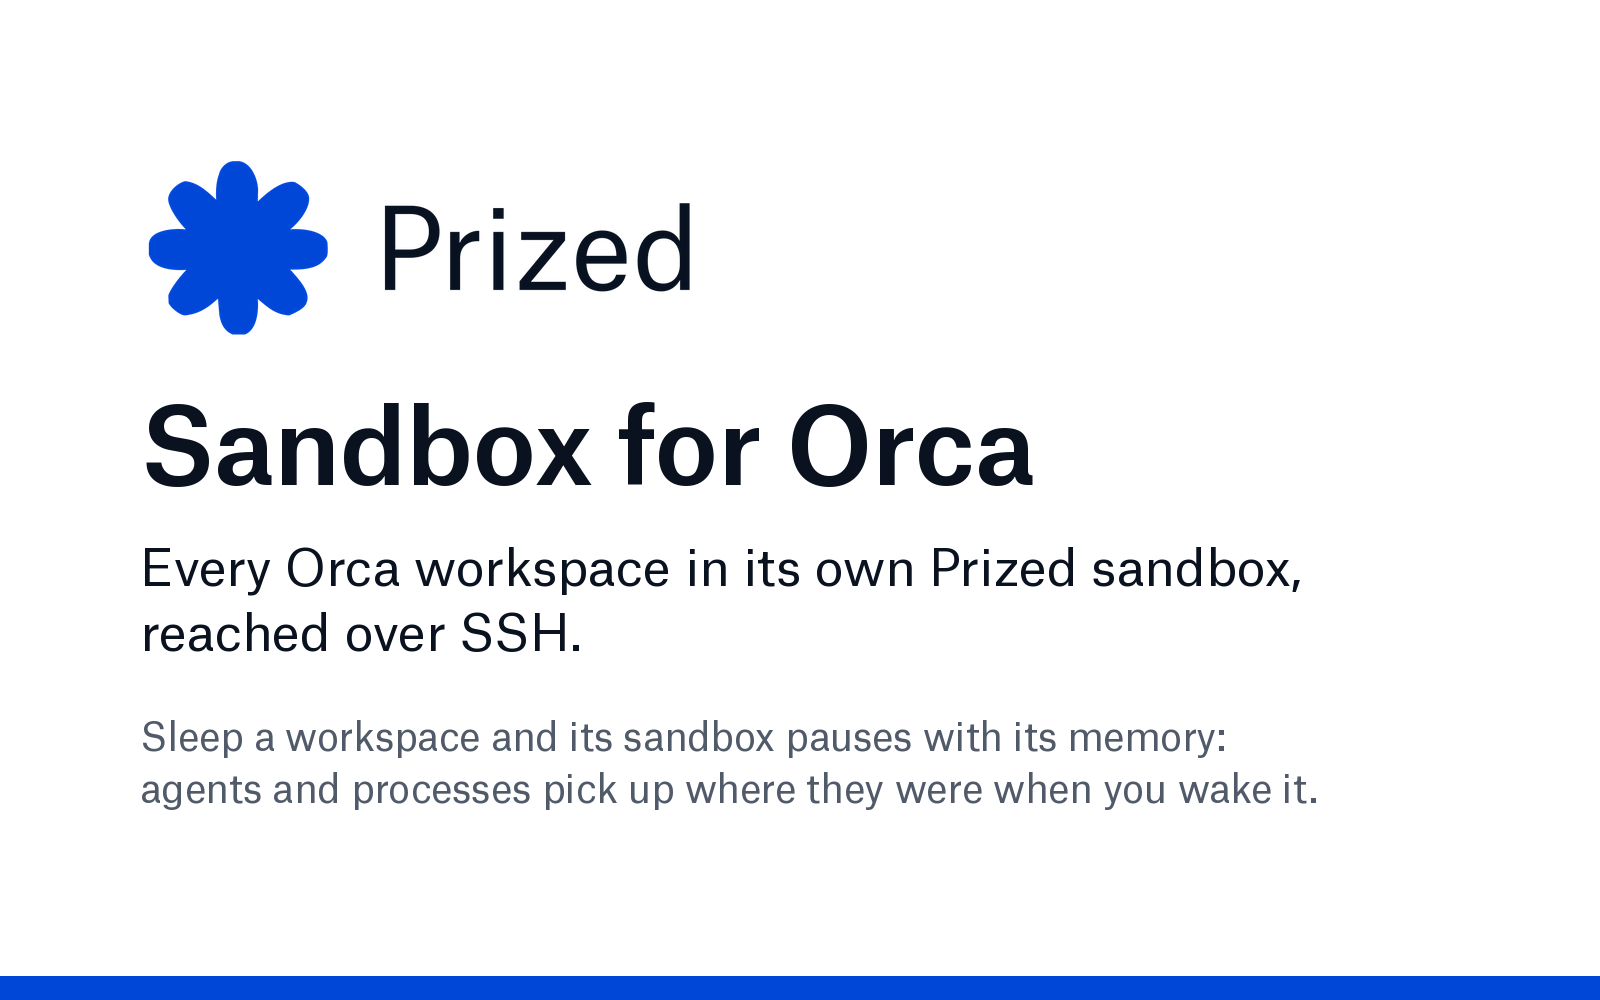
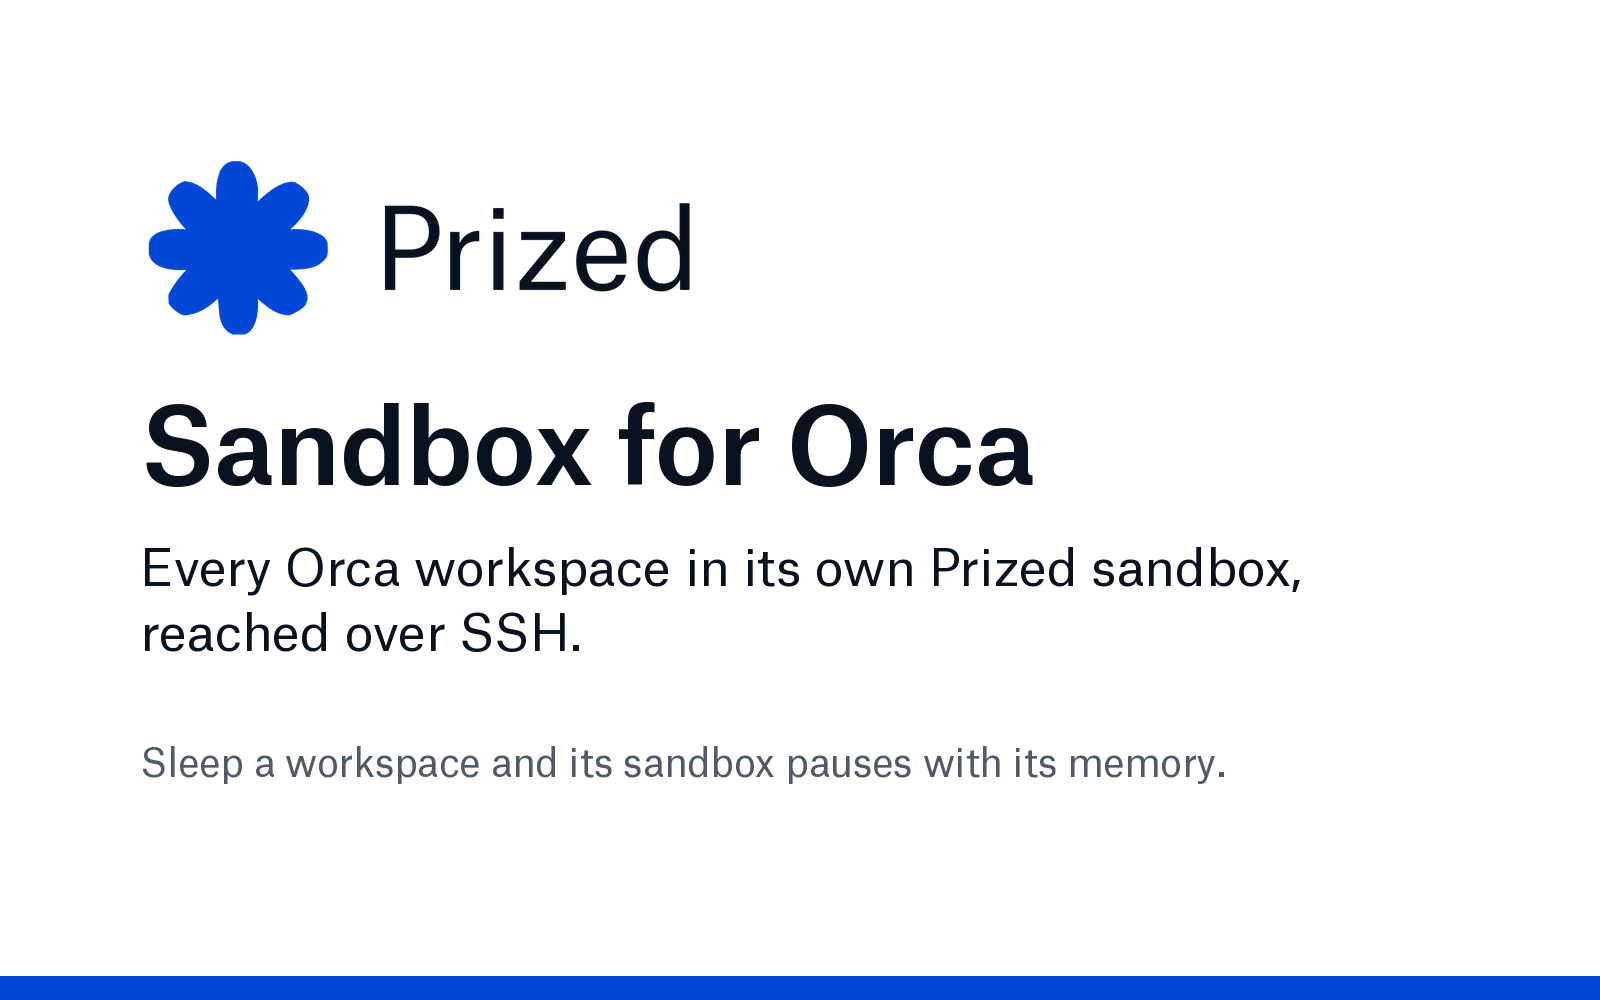
orca: say what real Orca does on sleep and delete; log a cancelled create
Ran the plugin inside real Orca 1.4.250 (Linux, under Xvfb, on a Prized box) against the
plugin's stand-in for Prized: create, an agent terminal over SSH, Sleep, Wake, Cancel and
Remove all worked. Things the docs had wrong, from watching Orca:

- Orca's Sleep closes the workspace's terminals and agents before it runs suspend
  (src/main/runtime/workspaces/workspace-sleep-execution.ts), and Wake opens them fresh. So
  "agents and processes pick up where they were" was not true; processes outside Orca's
  terminals (nohup/setsid, tmux) do survive, and the sandbox keeps them through the pause
  (checked on a real sandbox with test/live.mjs). Fixed in the manifest description, the
  README and the cover image (its last line dropped).
- A Prized Sandbox workspace is its project's primary checkout, so Orca offers "Remove
  Project from Orca", not Delete; Run on > Per-Workspace Environment shows only while Run on
  is this computer; install is Add plugin > From a Git URL, or Open in Orca on the
  onorca.dev page (the community catalog is not in Orca by default). README updated, and its
  Tests section uses npm test so it works in the standalone repo too.

A create cancelled from Orca exits from its signal handler, which skipped the end-of-command
trace, so lifecycle.log had no line for it. It now logs ok:false with the signal; the cancel
lifecycle test checks the line.

Changed region(s): [[0.0938, 0.713, 0.8125, 0.806]]

diff --git a/README.md b/README.md
@@ -1,8 +1,8 @@
 # Prized Sandbox for Orca
 
-Run each [Orca](https://www.onorca.dev) workspace in its own [Prized sandbox](https://prized.dev/docs/sandboxes?via=orca). Orca reaches the sandbox over SSH and runs your agents there. Sleep the workspace and the sandbox pauses with its memory, so agents and processes are where you left them when you wake it.
+Run each [Orca](https://www.onorca.dev) workspace in its own [Prized sandbox](https://prized.dev/docs/sandboxes?via=orca). Orca reaches the sandbox over SSH and runs your agents there. Sleep the workspace and the sandbox pauses with its memory and files, so a dev server or tmux session in it carries on when you wake it.
 
-Status: experimental. Tested against a stand-in for Orca 1.4.245 built from its published recipe contract, and against a real sandbox. Not yet run inside Orca itself.
+Status: experimental. Run in Orca 1.4.250 on Linux (create, an agent in the workspace over SSH, sleep, wake, cancel and delete) against a stand-in for Prized, and through create, sleep, wake and delete against a real sandbox by a harness that makes Orca's recipe calls. Not yet run in Orca against a real sandbox, so Orca's SSH connection to a real one is untested.
 
 ## Set up
 
@@ -27,9 +27,9 @@ You need Orca 1.4.245 or later on macOS or Linux, Node.js 22 or later, Git, Open
    npx -y github:prized-dev/orca-prized-plugin#v0.1.0 setup
    ```
 
-4. In Orca, turn on **Settings > Experimental > Cloud VM**, then install the plugin: search **Prized Sandbox** in the community catalog, or use **Settings > Plugins > Install from git URL** with `https://github.com/prized-dev/orca-prized-plugin.git#v0.1.0`.
+4. In Orca, turn on **Settings > Experimental > Cloud VM**. Then install the plugin: press **Open in Orca** on [its page](https://www.onorca.dev/plugins/prized-dev/orca-prized-plugin) (Orca asks once to add the community catalog), or use **Settings > Plugins > Add plugin > From a Git URL…** with `https://github.com/prized-dev/orca-prized-plugin.git#v0.1.0`.
 
-5. Create a workspace and pick **Prized Sandbox** under **Run on > Per-Workspace Environment**.
+5. Create a workspace and pick **Prized Sandbox** under **Run on > Per-Workspace Environment**. Orca lists that entry while **Run on** is this computer; with a sandbox selected, **Run on** offers a worktree inside that sandbox instead.
 
 `~/.prized-orca/bin/prized-orca doctor` checks all of this without creating anything. It also names any sandbox the plugin made on this machine that no workspace uses (a create killed outright), so you can delete it.
 
@@ -38,9 +38,9 @@ You need Orca 1.4.245 or later on macOS or Linux, Node.js 22 or later, Git, Open
 | Orca | The plugin |
 | --- | --- |
 | Create | Creates a sandbox (`prized-agent-v1`: Ubuntu 24.04 with Git, Node.js, Claude Code and Codex), uploads the exact commit Orca picked as a Git bundle (no Git credential goes in), checks it out on the workspace branch in `/home/prized/work/<repo>` with your Git name and email, opens a shell once with your login, and checks the SSH connection Orca will use. If a step fails, or you cancel in Orca, it deletes the sandbox. |
-| Sleep | Pauses the sandbox. Its memory, processes and files are kept, and only storage is billed. Orca's reconnects are refused while it sleeps, so nothing wakes it by accident. |
-| Wake | Resumes the sandbox and the same processes carry on. |
-| Delete | Deletes the sandbox. |
+| Sleep (right-click the workspace) | Orca first closes the workspace's terminals and agents. Then the plugin pauses the sandbox: its memory, files and the processes still running (a dev server started with `nohup`, a tmux session) are kept, and only storage is billed. Orca's reconnects are refused while it sleeps, so nothing wakes it by accident. |
+| Wake (open the workspace) | Resumes the sandbox; the processes kept at sleep carry on, and Orca opens its terminals and agents again. |
+| Remove Project from Orca (right-click the workspace) | Deletes the sandbox. A Prized Sandbox workspace is its project's primary checkout, so Orca offers this instead of Delete Worktree. |
 
 While Orca is connected, the sandbox counts as in use and keeps running (and billing); sleep the workspace to pause it. Closing Orca stops nothing: with no connection open, the sandbox pauses itself after 30 idle minutes and keeps its memory, and the next connection from Orca resumes it.
 
@@ -82,7 +82,7 @@ Pass them to setup (`setup --vcpu 4`), or edit `~/.prized-orca/config.json`. New
 
 ## Uninstall
 
-Delete the workspaces in Orca first (that deletes their sandboxes). Then remove the plugin under **Settings > Plugins**, and run:
+Remove each Prized Sandbox workspace in Orca first (right-click it > **Remove Project from Orca**, which deletes its sandbox). Then remove the plugin under **Settings > Plugins**, and run:
 
 ```bash
 ~/.prized-orca/bin/prized-orca uninstall
@@ -93,7 +93,7 @@ It takes the `Include` line out of `~/.ssh/config` and removes the plugin's file
 ## Tests
 
 ```bash
-scripts/test.sh orca
+npm test
 ```
 
 The offline tests run Orca's side from a stand-in written from Orca's published recipe contract (`test/orca-harness.mjs`), against a stand-in for the Prized API on `127.0.0.1` and a fake `prized` CLI. The SSH side is real OpenSSH: `ssh` with the plugin's include, and a local `sshd` set up like a sandbox (a certificate authority for users, a host certificate and the forced command). Without `sshd` the lifecycle tests are skipped.
